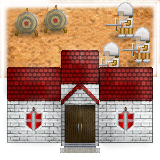
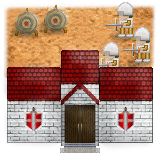
minor changes
updated barracks pic (josh removed the graphical artifacts) and
increased spritesheet rate

diff --git a/rtslib/tdent.py b/rtslib/tdent.py
@@ -22,7 +22,7 @@ class tdent():
 		surface.blit(self.sheet.getImage(), self.pos)
 		if (self.isMoving) or(self.speed == 0): 
 			self.sheetCounter+=1
-			if self.sheetCounter == 10: # 10 frames a sheet 
+			if self.sheetCounter == 6: # x frames a sheet 
 				self.sheet.nextImage()
 				self.sheetCounter = 0
 		if self.des[0] < self.pos[0] and self.speed > 0: 
